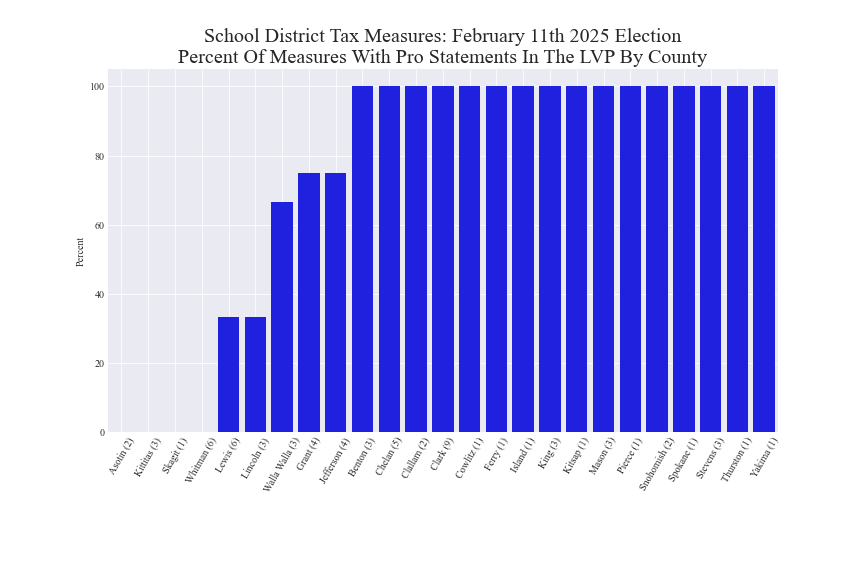
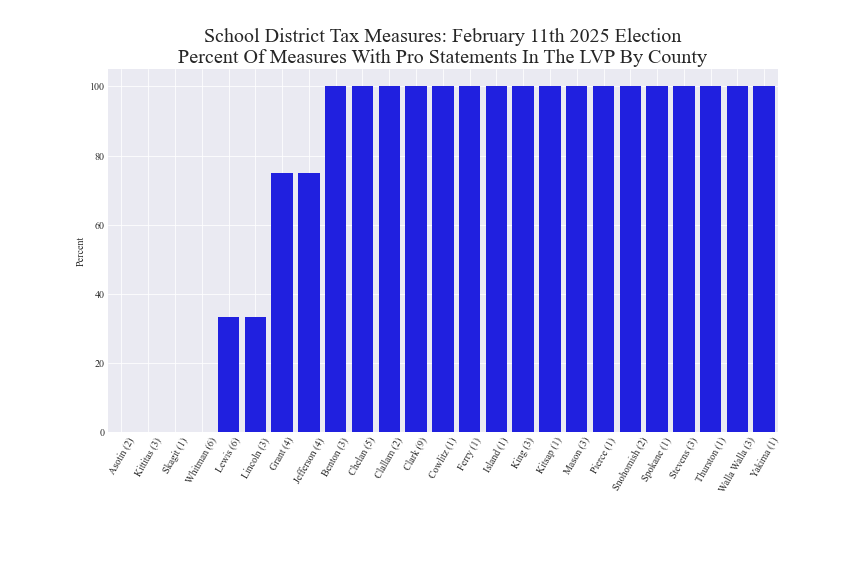
Updated elec 20250211
Updated:
LVP stats

Changed region(s): [[0.3125, 0.75, 0.875, 0.8438], [0.375, 0.125, 0.4062, 0.3125], [0.3125, 0.2812, 0.3438, 0.375]]

diff --git a/pagesManual/LeviesReport/report_levies_20250211.md b/pagesManual/LeviesReport/report_levies_20250211.md
@@ -46,7 +46,7 @@ Listed below are the the types and counts for the tax measures for the February 
 
 - Enrichment, capital and tech levies
     - Number of levies =  64
-    - Number of levies with pro statements =  43
+    - Number of levies with pro statements =  44
     - Number of levies with con statements =  16
 
 LVP pro/con statement statistics by county
